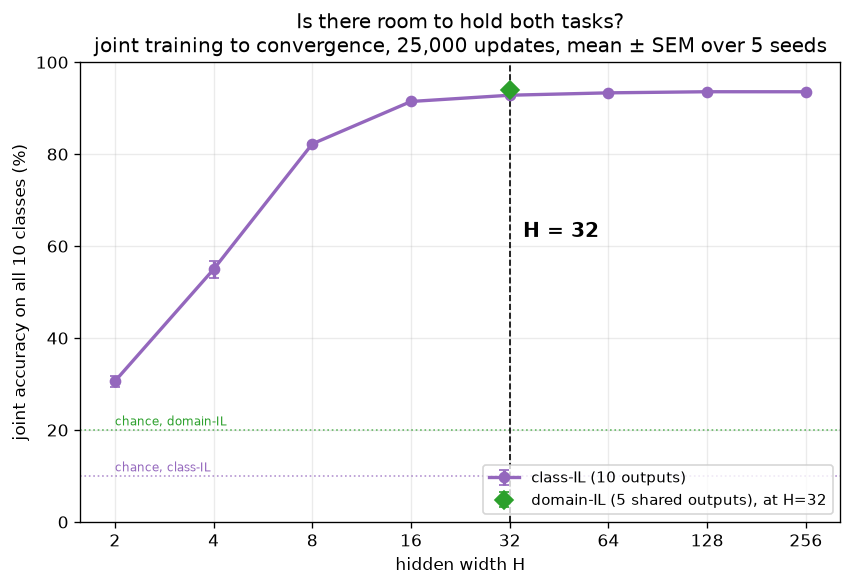
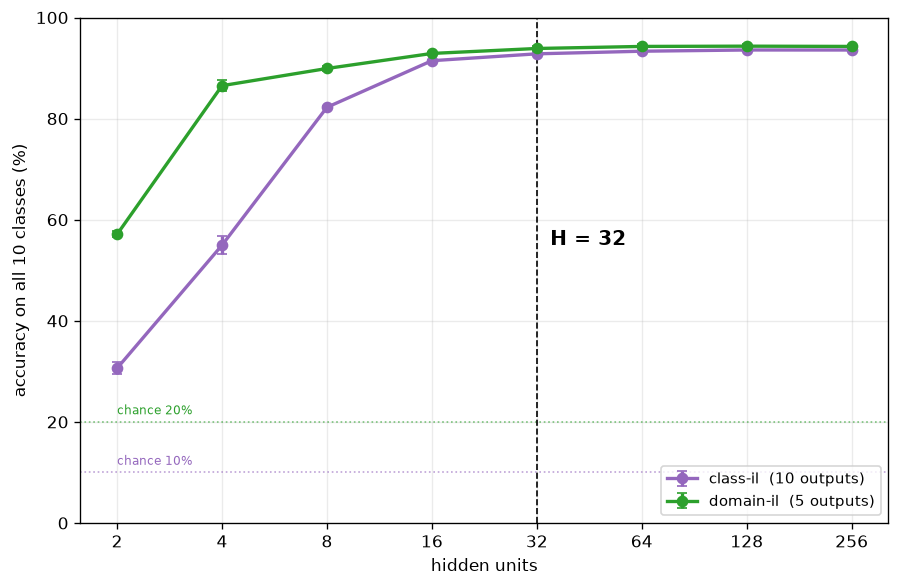
Record current state before context compression; Domain-IL becomes primary
claude_code_management/current_state.md is the new first-read document. It holds
what is established with numbers, what was got wrong and must not be re-derived,
the metric decisions with citations, and the running order. It supersedes
presentation_plan.md where they disagree.

Decisions recorded:

  Domain-IL becomes the primary scenario. It is what Song & Bogacz use; output
  suppression cannot occur there, and suppression is rule-independent, so what
  remains is representation drift, which is what a learning rule acts on. It also
  halves the compute. CLAUDE.md updated accordingly -- this reverses a recorded
  project fact rather than quietly diverging from it.

  The output-layer factor gains a third level. Masking is a PARTIAL W2 freeze --
  it holds the task-1 columns while task-2 columns still learn -- so free /
  masked / fully frozen crossed with W1 free/frozen is six cells, not four. The
  distinction that matters: masking needs task identity, W2 freezing does not.

  Freezing W2 does NOT make task 2 unlearnable. Networks train with a fixed
  output layer; the hidden layer adapts to read out through it. My earlier reason
  for omitting that cell was wrong.

  Half-life is kept, reversing an earlier decision to drop it. A literature sweep
  found the problem has a name -- setup-induced forgetting, Michel et al. 2023 --
  and that savings (Ebbinghaus; Hetherington for networks) is the established
[…]

diff --git a/claude_code_management/current_state.md b/claude_code_management/current_state.md
@@ -1,0 +1,221 @@
+# Current state — 2026-08-11
+
+Written before a context compression. This is the working record: what is established, what was
+got wrong, what is decided, and what happens next. Read this before `presentation_plan.md`, which
+is now partly out of date (see §7).
+
+---
+
+## 1. Results established
+
+All under: MNIST 14×14 (196 inputs), 2 tasks × 5 classes, one hidden layer, tanh, linear output,
+squared error, one-hot targets, plain SGD, batch 32, 5 seeds, class split drawn per seed.
+
+### 41 — capacity. **H = 32.** `[SETTLED]`
+Joint training to convergence, width swept 2→256, both scenarios.
+
+| | best | at H | 16→32 | 32→64 | 128→256 |
+|---|---|---|---|---|---|
+| Class-IL | 93.6% | 128 | +1.4 | +0.5 | −0.0 |
+| Domain-IL | 94.3% | 128 | +1.0 | +0.4 | −0.1 |
+
+Both scenarios flatten at the same width and agree on H = 32. **Capacity is never a confound in
+any later experiment.** Joint ceiling is the number retention must be read against — not 100%.
+
+Domain-IL beats Class-IL by 29 points at H=2 and the gap closes by H=16: a small-network artefact
+of 5 output units vs 10, not a scenario effect. Their chance levels differ (20% vs 10%), so
+absolute accuracies are **not comparable across scenarios**.
+
+### 40 — backprop forgets. `[SETTLED]`
+Three alternating cycles, fixed budget per block. Run at provisional H=64, **needs re-running at
+H=32.**
+
+- Task 1: 93.8% → 0.4% when task 2 trains. Repeats identically three times.
+- **Relearning accelerates: 320 → 110 → 60 updates** to reach 94%.
+- Task 1 falls **below the collapse floor** (0.4% against 10%), i.e. task-2 output units win the
+  argmax on task-1 images.
+- Retention after each task-2 block rises across cycles: 0.4% → 1.8% → 3.1%.
+
+### 42 / 43 — where the forgetting is, Class-IL. `[SETTLED]`
+Factorial of loss masking × hidden-layer freezing, backprop only.
+
+**42 measured at saturation (task 2 run 2000 updates):**
+
+| condition | task 1 kept | NCM task 1 |
+|---|---|---|
+| control | 0.2% | 71.7% |
+| masked | 62.2% | 78.7% |
+| frozen hidden | 0.0% | 84.2% |
+| masked + frozen | 81.8% | 84.7% |
+
+**43, identical but task 2 stopped at 50% accuracy:**
+
+| condition | task 1 kept | crossover | half-life | final t1 |
+|---|---|---|---|---|
+| control | 35.7% | 59.1% | 32 | 36.3% |
+| masked | 73.9% | never | never | 67.6% |
+| frozen hidden | 53.1% | 56.3% | 100 | 54.4% |
+| masked + frozen | 74.8% | never | never | 80.4% |
+
+**The two headline findings, both robust to the measurement point:**
+
+1. **The information survives.** NCM — classify from the hidden layer with the output layer
+   discarded — holds ~80% on task 1 while the network's own prediction reads 0.2%. In the
+   frozen-hidden condition the NCM line is *exactly flat* by construction, and the prediction
+   still collapses, so the collapse is entirely in W2.
+2. **Two mechanisms with different durations.** Output-layer suppression is large and permanent.
+   Representation drift is real but transient — it changes the *rate*, not the asymptote
+   (freezing doubles half-life, +31 points at 50 updates post-switch, 0 at 2000).
+
+---
+
+## 2. Corrections — things got wrong, recorded so they are not re-derived
+
+- **"Freezing the hidden layer recovers nothing"** — FALSE. An artefact of measuring at
+  saturation, where every condition reads 0. It recovers 17 points at matched competence.
+- **"No room for a learning rule; Domain-IL is where the action must be"** — a narrative built on
+  that artefact. Withdrawn.
+- **"Every rule receives the same output error, so no rule can change the output-layer update"** —
+  FALSE. `pc_update` computes the output error from the **settled** hidden state
+  (`predictive_coding.py:114-118`), so both the presynaptic activity and the error differ from
+  backprop. Slides 5–6 may only claim *a rule cannot change the loss or the target coding*.
+- **"Freezing W2 makes task 2 unlearnable"** — FALSE. Networks train fine with a fixed output
+  layer; the hidden layer adapts to read out correctly through it (Hoffer et al. 2018).
+- **Masking ≈ freezing the task-1 columns of W2.** Under squared error the gradient at output
+  unit j is (target_j − out_j)·h; masking zeroes it for absent j, as does freezing column j.
+  **Masking requires task identity; W2 freezing does not.** Masking is an oracle upper bound.
+- **`masked + frozen` is not a method.** It trains a new head on a fixed feature extractor and
+  needs task identity. It is a ceiling demonstration.
+- **A capacity sweep at a short budget produces a fake plateau** indistinguishable from a real
+  capacity ceiling. At 2500 updates all widths ≥8 sat at ~87% and the answer looked like H=16.
+  Measure convergence first, then sweep.
+
+---
+
+## 3. Metrics — the decision and its citations
+
+**The problem, and it has a name.** Every standard metric (ACC, BWT, forgetting) is evaluated at
+the end of training, so its value is set by how long task 2 was trained. Michel et al. 2023
+(arXiv:2309.00462) call this **setup-induced forgetting** and propose normalising by task
+difficulty. Our own case is extreme: in 2×5 Class-IL every condition reaches 0, so endpoint
+metrics cannot rank anything.
+
+**What we use, and why:**
+
+| metric | what it is | status |
+|---|---|---|
+| ACC, BWT, forgetting | standard endpoint metrics | report them, and show they degenerate. Lopez-Paz & Ranzato 2017; Chaudhry et al. 2018 |
+| task-1 accuracy at matched task-2 accuracy | read retention when every condition has learned the new task equally well | separates "retained more" from "learned less" |
+| crossover height | where the two curves cross | budget-independent; **undefined when they never cross** (masked conditions) |
+| half-life | updates to lose half the pre-switch peak | budget-independent; covers the case crossover cannot. Forgetting-rate tradition, define explicitly, claim no novelty |
+| **savings** | how fast old material is relearned | **established metric** — Ebbinghaus 1885, Hetherington for networks. Detects residual knowledge accuracy cannot see. **Script 40 already measured it** (320→110→60) and the literature's "interference diminishes monotonically with repetition" matches our 0.4→1.8→3.1% |
+| target alignment | cos(target − out_before, out_after − out_before), [R1] Fig 3b | measured **on task-1 data while training task 2** it gives per-update interference, budget-independent by construction |
+| inefficiency [R31] | path length ÷ net displacement | **not a forgetting metric.** Belongs to "why do rules differ", not "how much do they forget" |
+
+Also: Díaz-Rodríguez et al. 2018 (arXiv:1810.13166) for the broader metric set.
+
+---
+
+## 4. Decisions taken this session
+
+- **Domain-IL becomes the primary scenario** for the rule comparison. Justification: it is what
+  Song & Bogacz [R1] use; it removes output suppression, which is rule-independent, leaving
+  representation drift, which is what a rule acts on; and it halves the compute.
+  **This contradicts `CLAUDE.md`, which must be updated.** Class-IL results are kept and explain
+  why Class-IL is a different question rather than being avoided.
+- **The output-layer factor becomes three levels** — free / task-1 columns held (masked) /
+  fully held — crossed with W1 free/frozen.
+- **NCM gets its own single figure, control condition only**, two lines. It is not put into
+  every factorial cell; that makes a hard concept unreadable.
+- **Capacity-dependence of the mechanism split (C3) is deferred.** Real open question, not on the
+  critical path. Old exp 23 suggests the freeze-W1 effect is large at width 2 and near zero at 64.
+- **The trajectory figure is one axes with one line per condition**, means only. The per-seed grid
+  is analysis output.
+- **Training and plotting are decoupled**: every script takes `--replot` and redraws from its
+  saved `.npz`. Already done for 41 and 42.
+- **Half-life is kept** (see §3), reversing an earlier decision to drop it.
+
+---
+
+## 5. Open questions, not blocking
+
+- **PC settles a fixed 50 steps; EqProp settles with patience to equilibrium.** This asymmetry
+  sits directly on the mechanism under test — `knowledge_base.md` §3.3 records that full
+  relaxation is [R1]'s actual contribution, and that all rules approach backprop as settling is
+  reduced (Millidge 2022). **If PC's relaxation is truncated we may be testing a backprop
+  approximation.** Needs its own experiment before the rule comparison is trusted.
+- **Is MNIST complex enough?** Pinchetti et al. 2025 report PC matching backprop at small scale
+  and losing at large. Open question; reference already on the acquisition list.
+- **Does the mechanism split depend on width?** (deferred C3, above)
+- **One hidden layer means only one place drift can occur.** The depth experiment is the test.
+- **`Protocol.stop_threshold` = 0.9 and `Protocol.lr` = {} are still placeholders.** Learning
+  rates are legacy-era defaults, so no comparison between rules means anything until they are
+  grid-searched per rule and matched on steps-to-threshold.
+- **Lower the learning rate for legibility.** Transitions occupy ~200 of 4000 updates, which is
+  why the curves look like step functions. Slowing it breaks nothing, because comparisons are
+  made at matched accuracy rather than at fixed steps.
+
+---
+
+## 6. Code state
+
+- `src/protocol.py` — `Protocol` frozen dataclass, varied with `replace`. `load` / `build` / `run`.
+  `run` returns curves, switches, reached, tasks, snapshots. `hidden` has no default and raises.
+- `src/data.py` — **MNIST is cached** to `data/preprocessed/mnist_14.pt`. 8.1 ms → 0.30 ms per
+  batch, 27×. Built once in 12 s.
+- `src/metrics.py` — `summarise`, `inefficiency`, `sem`, plus crossover / value_when / half_life /
+  area_retained.
+- `src/probes.py` — NCM readouts, `alignment_probe`, `weight_path_probe` (both wrap `train_step`).
+- All review findings closed; see `code_review.md`. Map of the code: `code_map.md`.
+
+---
+
+## 7. The plan — question tree, replacing the slide-driven ordering
+
+Slides are deferred. The presentation falls out of the questions, not the other way round.
+
+```
+Do energy-based rules forget less than backprop?
+│
+├── A. Can the network hold both tasks?        ANSWERED — script 41, H=32
+├── B. What does "forgets less" MEAN?
+│      B1 do standard metrics work here?
+│      B2 what rate metrics work?
+│      B3 at what point do we compare?
+├── C. Where does the forgetting happen?
+│      C1 is the information still there?      ANSWERED — NCM ~80% vs argmax 0%
+│      C2 is it W1 or W2?                      ANSWERED (Class-IL) — W2
+│      C3 does it depend on capacity?          DEFERRED
+│      C4 does it depend on scenario?          axis inside C2 and D, not its own script
+├── D. Do the rules differ?
+├── E. Why?   E1 target alignment · E2 weight movement
+└── F. Does it generalise?   depth · harder data
+```
+
+**Agreed running order.** The rule comparison runs **first**, as a motivating observation, before
+the metrics work — it puts a real result on the table, de-risks the project, and makes the metric
+question motivated rather than pre-emptive: *we can see a difference, now how do we measure it?*
+
+1. **Rule comparison, uncontrolled** — repeat exp 12's grid under the current protocol and code,
+   four rules, Domain-IL. Explicitly **not** a controlled claim: learning rates are not yet
+   matched and settling is not yet controlled. Its job is continuity with a result already
+   believed, and to show the trajectories.
+2. **B1, B2, B3** — one set of backprop runs, three scripts reading the same saved arrays.
+3. **C2** — the six-cell factorial, ordinary accuracy. **C1** — NCM, its own single figure.
+4. **Settling control** — does PC converge in 50 steps, and does the amount of settling matter?
+5. **D controlled** — after learning rates are grid-searched and settling is matched.
+6. **E**, then **F**.
+
+Scripts 40–43 stay as the exploratory record. 41's arrays are reused, not re-run.
+
+---
+
+## 8. Working relationship notes
+
+- Explanations must map to variables, order of operations and code lines. **No metaphors, no
+  analogies, no informal shorthand.** Define every term on first use.
+- Plots: simple axis labels ("accuracy (%)"), **no long titles**, consistent colours
+  (task 1 orange, task 2 blue), one summarising phrase at most.
+- Present a recommendation, not a menu. Too many options is the main source of overwhelm.
+- Check whether a stated position rests on a measurement choice before building an argument on it.
+- Prefer a cited metric or method over an invented one; if inventing, say so and justify it.

diff --git a/CLAUDE.md b/CLAUDE.md
@@ -21,6 +21,7 @@ the wrong one. Flag it and ask.
 
 | File | What it is | When to read it |
 |---|---|---|
+| `claude_code_management/current_state.md` | **Where the project actually is.** Results, corrections, decisions, running order. | **First, every session.** It supersedes the plan where they disagree. |
 | `claude_code_management/knowledge_base.md` | Consolidated reference. Amendable. | Before any substantive claim. Start with §9.3. |
 | `claude_code_management/timeline.md` | Append-only log of chats. Entries are never edited. | When asked about history. |
 | `claude_code_management/presentation_plan.md` | The slide plan. Authoritative for what work happens next. | Start of any presentation or experiment work. |
@@ -42,12 +43,17 @@ confirm its figure is unchanged, before the next change starts.
   each — for both scenarios.**
 - Network: 196 → H → 10 (Class-IL) or 196 → H → 5 (Domain-IL). One hidden layer, tanh, squared
   error. Identical across all four learning rules — only the rule varies.
-- **The hidden width H is not decided.** Prior work suggests the answer matters a great deal and
-  disagrees with itself about it (`knowledge_base.md` §6.6.3). It is settled by a fresh experiment,
-  not by inheriting a number.
+- H was settled by script 41 rather than inherited, which matters because prior work disagrees
+  with itself about width (`knowledge_base.md` §6.6.3). Note that a capacity sweep run at too
+  short a budget produces a flat region that is indistinguishable from a capacity ceiling —
+  measure convergence first.
 - Optimiser: plain SGD everywhere. Batch 32. Learning rate grid-searched **per rule**.
-- Scenarios: Class-IL is primary, Domain-IL also run. Only the output layer differs between them —
-  and Domain-IL at 2×5 with 5 shared outputs is structurally Song & Bogacz's Fig 4d.
+- Scenarios: **Domain-IL is primary** (changed 2026-08-11). It is what Song & Bogacz use, and
+  output-layer suppression — which is rule-independent — cannot occur there, leaving
+  representation drift, which is what a learning rule acts on. Class-IL is run where relevant and
+  its result explains why it is a different question. Only the output layer differs between them.
+- **Hidden width H = 32**, fixed by script 41 on capacity grounds. Joint ceiling 93.6% (Class-IL)
+  and 94.3% (Domain-IL) — retention is read against those, not against 100%.
 - Controls on every forgetting run: backprop (negative) and replay (positive).
 - Four methods: `backprop`, `replay`, `pc`, `eqprop`.
 
